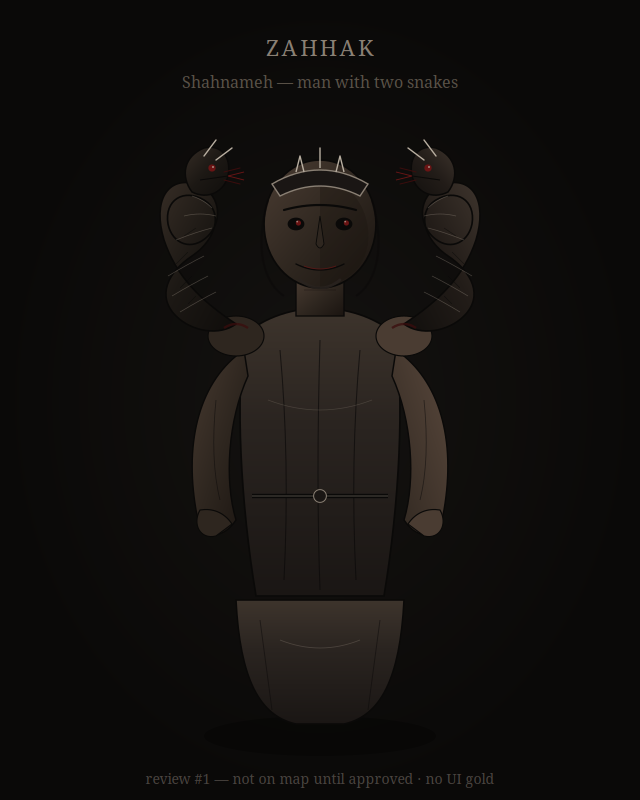
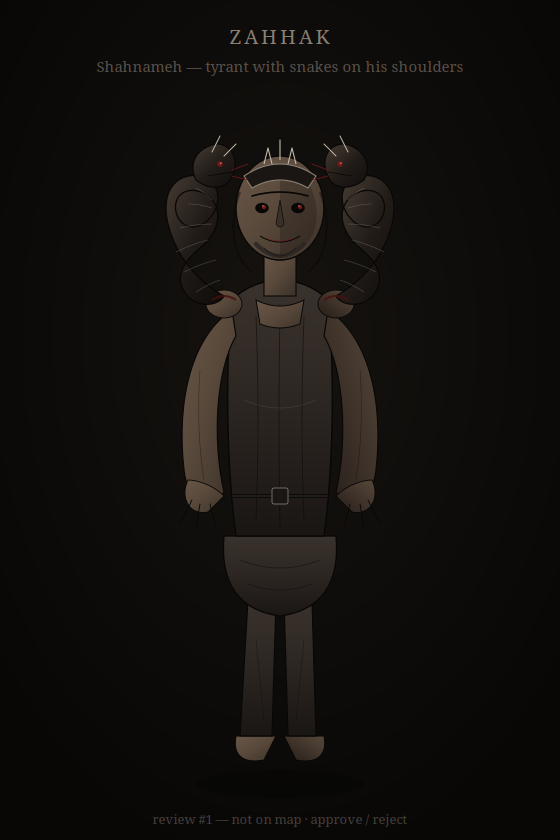
fix: refine Zahhak review — human proportions and finer snake detail
Tighten the Shahnameh man-with-snakes draft for approval; still not placed on maps.

diff --git a/static/.preview-maps/beast-review/README.md b/static/.preview-maps/beast-review/README.md
@@ -1,31 +1,21 @@
 # Beast review — #1 Zahhak (ضحاک)
 
-**Status:** awaiting approval. Not baked into maps.
+**Status:** awaiting approval. Not on any map.
 
-## Correction from prior draft
+## What this is
 
-Previous draft showed a three-headed dragon (Avestan Aži Dahāka as beast).  
-**Shahnameh Zahhak** that Iranians know is a **man (king)** with **two snakes growing from his shoulders** — that is what this revision draws.
+Shahnameh **Zahhak**: a **human king** with **two snakes growing from his shoulders** (the figure Iranians know) — **not** a three-headed dragon.
 
-## Design notes
+Dark ash/skin/bone palette, crimson only for eyes/wounds/tongues. No map-UI gold. Smaller figure, finer line work, human proportions (head ~1/7 of height), legs/hands/robe folds/scale rows.
 
-- Human figure: crown, face, robe, arms — dark ash/skin, bone accents, crimson only for eyes/wounds/snake mouths
-- Two serpents rising from the shoulders with scale rows, horns, tongues
-- Smaller, neater line work; denser detail; no map-UI gold (`#c9a45c`)
-- Compact artboard (320×400) so it stays a small decorative mark when placed
+## Proposed placement (only after you approve)
 
-## Proposed placement (after approval)
-
-| Field | Value |
-|-------|--------|
-| Map | `persia` |
-| Lon / lat | **46.5°E, 33.8°N** (Zagros / Media–Elam margin — Zahhak’s tyranny; keep clear of Damavand pin) |
-| Alt | or **53.2°E, 35.4°N** if chaining-to-Damavand reading preferred (offset from summit) |
+| Map | Lon/lat | Note |
+|-----|---------|------|
+| `persia` | **46.5°E, 33.8°N** | Zagros margin (tyranny lands); keep clear of Damavand pin |
 
 ## Files
 
 - `dahaka.svg` / `dahaka.png`
 
-## Next
-
-Approve / reject / revise this Zahhak only. Then Simorgh.
+Reply **approve** / **reject** (+ notes). Next beast only after this one.
